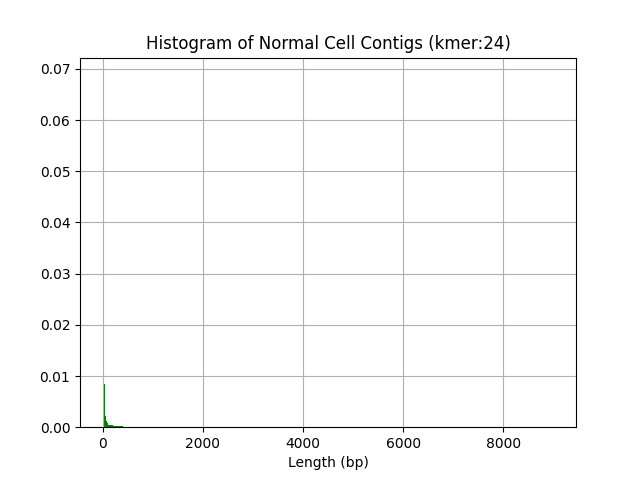
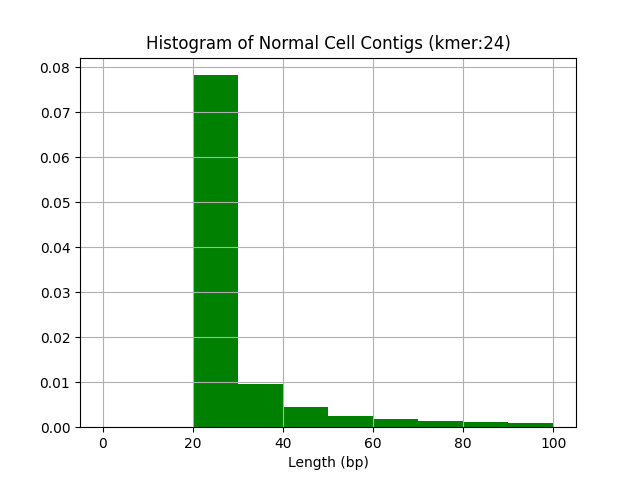
Add histogram between 0 to 100 and fix the contigs analysis report

diff --git a/main-code/contigs_analysis.py b/main-code/contigs_analysis.py
@@ -5,7 +5,7 @@ import math
 import sys
 
 def plot_histogram(array_of_lengthes):
-    bins = np.concatenate(([0,100,200,300,400,500,1000],np.arange(2000,10000,1000)), axis=None)
+    bins = np.arange(0,101,10)
     fig = plt.figure()
     plt.hist(array_of_lengthes, bins=bins, density=True, facecolor='g')
     plt.title("Histogram of Normal Cell Contigs (kmer:24)")
@@ -45,7 +45,7 @@ def analyse_file(file, source=False):
     print("min length of sequence:", min_length)
     print("max length of sequence:", max_length)
     print("avarege length of sequence:", avg)
-    bins = np.concatenate(([0,100,200,300,400,500,1000],np.arange(2000,10000,1000)), axis=None)
+    bins = np.arange(0,101,10)
     hist, bin_edges = np.histogram(np.array(list_of_length), bins=bins)
     print("histogram:")
     print(hist)
